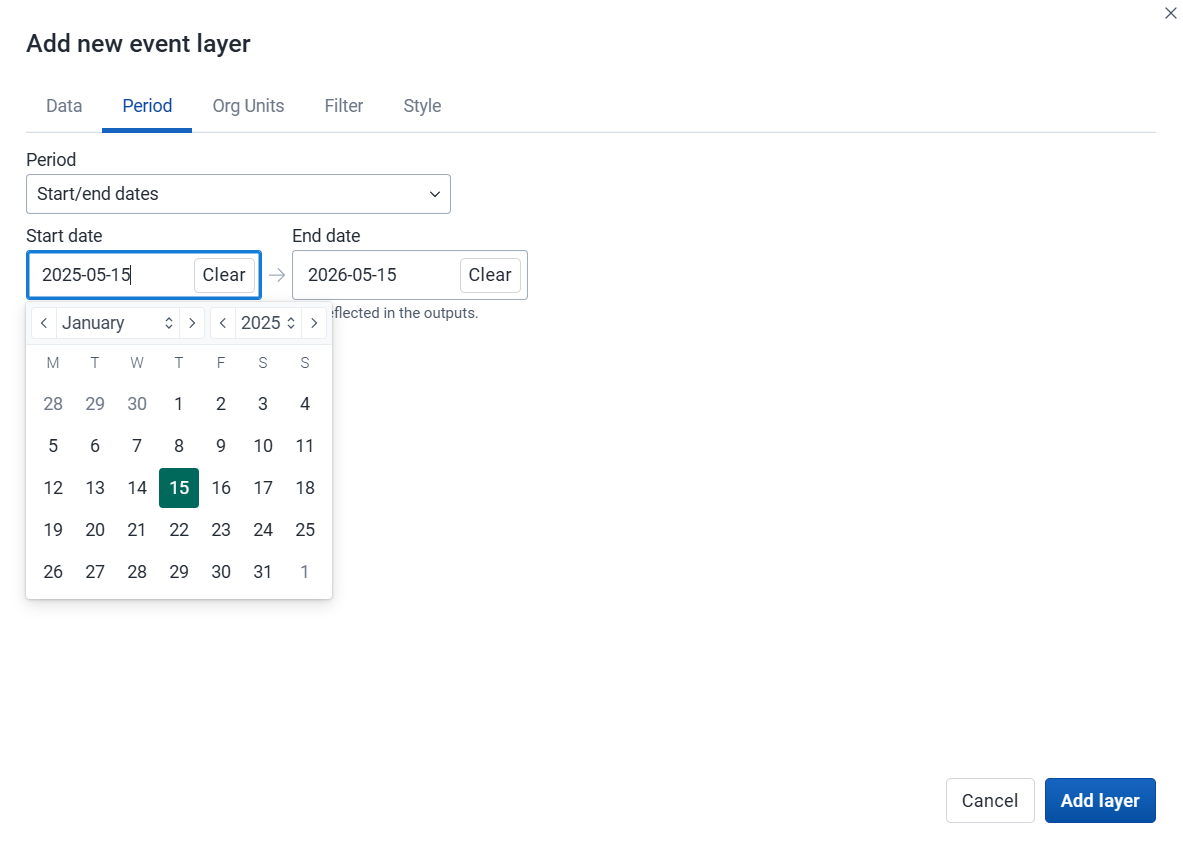
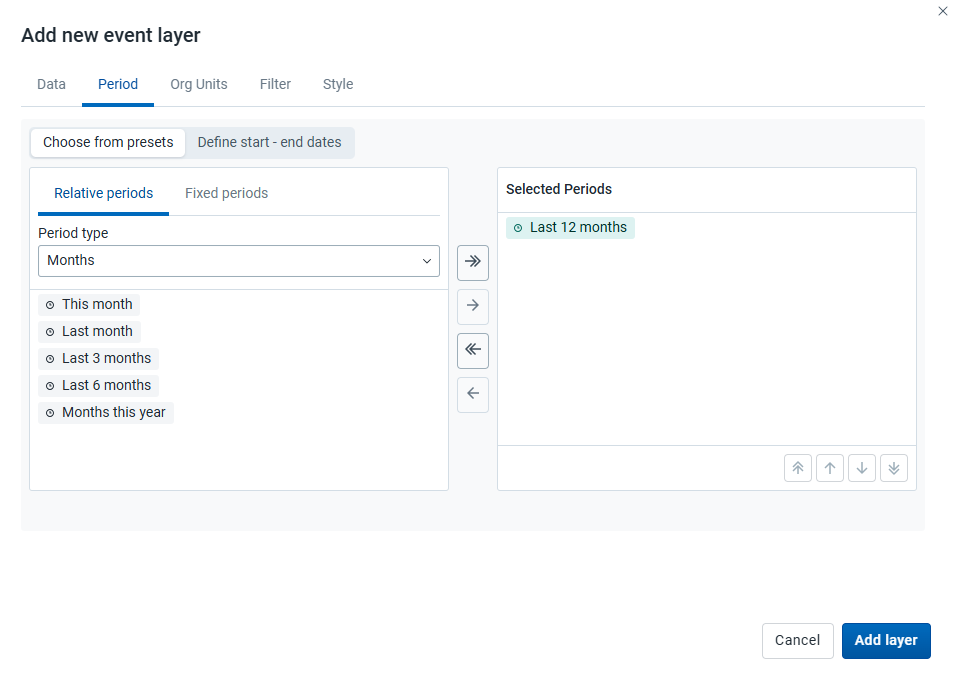
chore: update docs

diff --git a/docs/maps.md b/docs/maps.md
@@ -439,14 +439,21 @@ layer configuration dialog.
 
 ![](resources/images/maps_event_layer_dialog_PERIOD.png)
 
--   Select the time span for when the events took place. You can select either a fixed period or a
-    relative period.
+Select the time span for when the events took place.
 
-    -   _Relative period_: Select one of the relative periods, for example **This month** or **Last
-        year**. A **default relative period for analysis** can be set in the **System Settings**
-        app.
+-   **Choose from presets**: You can combine one or more relative and fixed periods.
 
-    -   _Fixed period_: Select **Start/end dates** and fill in a start date and an end date.
+    -   _Relative period_: Select **Relative periods**, then the **Period type** (**Years**,
+        **Months**, etc.) and choose one or more relative periods, such as **This year** and **Last
+        year** or **Last 12 months**. A **default relative period for analysis** can be set in the
+        **System Settings** app.
+
+    -   _Fixed period_: Select **Fixed periods**, then choose the **Period type** (**Yearly**,
+        **Monthly**, etc.) and choose one or more fixed periods, such as **2024** or **January
+        2025** and **February 2025**.
+
+-   **Define start–end dates**: Specify exact start and end dates. Both dates are inclusive and will
+    be reflected in the outputs.
 
 #### 3. Org units
 

diff --git a/docs/src/05-event-layer.md b/docs/src/05-event-layer.md
@@ -45,14 +45,21 @@ layer configuration dialog.
 
 ![](../resources/images/maps_event_layer_dialog_PERIOD.png)
 
--   Select the time span for when the events took place. You can select either a fixed period or a
-    relative period.
+Select the time span for when the events took place.
 
-    -   _Relative period_: Select one of the relative periods, for example **This month** or **Last
-        year**. A **default relative period for analysis** can be set in the **System Settings**
-        app.
+-   **Choose from presets**: You can combine one or more relative and fixed periods.
 
-    -   _Fixed period_: Select **Start/end dates** and fill in a start date and an end date.
+    -   _Relative period_: Select **Relative periods**, then the **Period type** (**Years**,
+        **Months**, etc.) and choose one or more relative periods, such as **This year** and **Last
+        year** or **Last 12 months**. A **default relative period for analysis** can be set in the
+        **System Settings** app.
+
+    -   _Fixed period_: Select **Fixed periods**, then choose the **Period type** (**Yearly**,
+        **Monthly**, etc.) and choose one or more fixed periods, such as **2024** or **January
+        2025** and **February 2025**.
+
+-   **Define start–end dates**: Specify exact start and end dates. Both dates are inclusive and will
+    be reflected in the outputs.
 
 #### 3. Org units
 